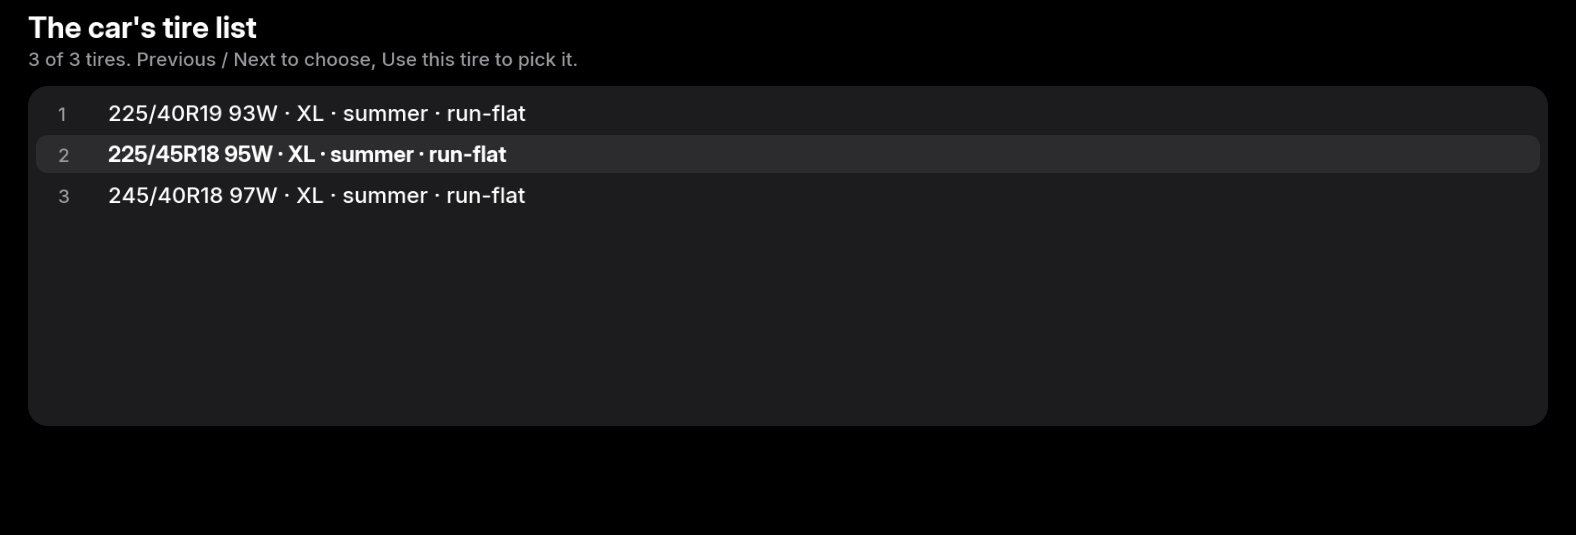
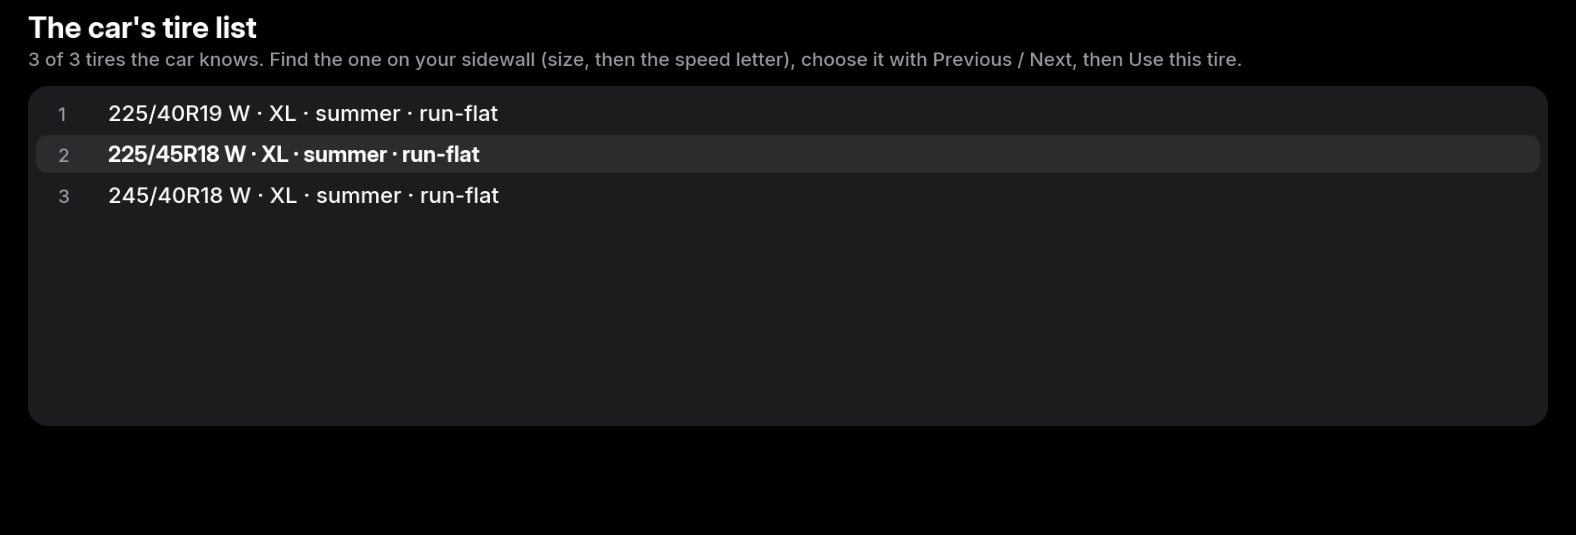
Tire Setup 0.2.0: the tire list in real sizes; Load button for the target pressures
- The car's tire list comes as size steps, not millimetres (Nov 12: width
  13 / 16, ratio 4-7, rim 6-8, shown as '13/7R6'): width = 95 + 10 x step,
  ratio = 15 + 5 x step, rim = 11 + step decodes it to the G22's sizes
  (225/45R18, 255/40R18, 255/35R19, 225/50R17 / 255/45R17 winters). The
  load index is left out (its step lands within 1). The rear axle struct's
  members are 'BackAxle': read them.
- Load button: comfort / partly / fully loaded (pressed twice), which with
  the tire picked sets the target pressures; there is no number to type.
- Seen on the car: Auto detect was accepted and DSC stayed on (20:32 UTC).

diff --git a/apps/aref_tires/main.js b/apps/aref_tires/main.js
@@ -24,7 +24,7 @@ const fonts = require('./kit/fonts');
 const pack = require('./kit/pack');
 const T = require('./decode');
 
-const VERSION = '0.1.2';
+const VERSION = '0.2.0';
 const W = 1600, H = 520;
 const LOG_MAX = 512 * 1024;
 const ARM_MS = 5000;                  // a change button pressed again within this sends it
@@ -106,7 +106,7 @@ mgu.run({
             let busy = false, alarm = null, armed = null, toast = null;
             const say = (text, tone, ms) => { toast = { text: text, tone: tone || 'info', until: Date.now() + (ms || 5000) }; };
             const LABEL = { list: 'Get the tire list', auto: 'Auto detect', pick: 'Use this tire', reset: 'Reset pressures', summer: 'Summer tires',
-                winter: 'Winter tires', eco: 'Eco pressures', partly: 'Partly loaded', full: 'Fully loaded', test: 'Safe test' };
+                winter: 'Winter tires', eco: 'Load: comfort (lowest targets)', partly: 'Load: partly loaded', full: 'Load: fully loaded (highest targets)', test: 'Safe test' };
             // why a change can't be sent now, or null
             const blocked = () => {
                 if (!settings.get('allow_writes')) return 'Changes are off. Turn on Settings > Allow changes to the car.';
@@ -184,6 +184,14 @@ mgu.run({
             ui.onClick('BTN_RESET', guard('reset', () => send('reset')));
             ui.onClick('BTN_SEASON', guard('season', () => { const st = T.tyreState(val('tpms.statusTyreState')); send(st && st.season === 'summer' ? 'winter' : 'summer'); }));
             ui.onClick('BTN_TEST', guard('test', () => send('test')));
+            // the target pressures come from the tire picked and this load setting (BMW's menu: comfort / partly / fully
+            // loaded); there's no number to type in. Each press of Load steps to the next one (pressed twice to send).
+            const LOADS = ['eco', 'partly', 'full'], LOAD_OF = { 'Eco / comfort': 'eco', 'Partly loaded': 'partly', 'Fully loaded': 'full' };
+            ui.onClick('BTN_LOAD', guard('load', () => {
+                const st = T.tyreState(val('tpms.statusTyreState')), cur = st && LOAD_OF[st.loading];
+                const next = armed && /^(eco|partly|full)$/.test(armed.key) ? armed.key : LOADS[(LOADS.indexOf(cur) + 1) % LOADS.length];
+                send(next);
+            }));
             ui.onClick('BTN_DSC', guard('dsc', dscOn));
 
             /* ---------- drawing ---------- */
@@ -235,12 +243,13 @@ mgu.run({
                     ['Parked', sp === null ? 'unknown' : sp < 0.5 ? 'Yes' : 'No (' + Math.round(sp / 1.609) + ' mph)'],
                 ];
                 rows.forEach((r, i) => kv(cv, dx + 26, ty + 36 + i * 32, dw - 52, r[0], r[1], r[2]));
-                cv.text(settings.get('allow_writes') ? 'Changes to the car: allowed (parked, DSC on, press twice)' : 'Changes to the car: off (Settings)', 40, 470, 17, C.dim2, M);
+                const tgtNote = 'Target pressures come from the tire you pick and Load, then Reset learns them.';
+                cv.text((settings.get('allow_writes') ? 'Changes: allowed (parked, DSC on, press twice). ' : 'Changes: off (Settings). ') + tgtNote, 40, 470, 17, C.dim2, M);
             };
             const drawList = (cv) => {
                 const all = ids(), st = T.tyreState(val('tpms.statusTyreState'));
                 cv.text('The car\'s tire list', 40, 76, 30, C.text, B);
-                cv.text(all.length ? all.length + (st && st.listLength ? ' of ' + st.listLength : '') + ' tires. Previous / Next to choose, Use this tire to pick it.' : 'Press Get list: the car sends its list one tire at a time.', 40, 104, 19, C.dim, M);
+                cv.text(all.length ? all.length + (st && st.listLength ? ' of ' + st.listLength : '') + ' tires the car knows. Find the one on your sidewall (size, then the speed letter), choose it with Previous / Next, then Use this tire.' : 'Press Get list: the car sends its list one tire at a time.', 40, 104, 19, C.dim, M);
                 card(cv, 40, 124, W - 80, 340);
                 const per = 8, first = Math.max(0, Math.min(cursor - 3, all.length - per));
                 all.slice(first, first + per).forEach((id, i) => {

diff --git a/apps/aref_tires/tires/decode.js b/apps/aref_tires/tires/decode.js
@@ -83,17 +83,22 @@ const RUNFLAT = { RUNFLAT: 'run-flat', NON_MINUS_RUNFLAT: '', PAX: 'PAX' };
 function tire(v, k) {
     if (!v) return null;
     const g = (m) => v[m.replace('#', k)];
-    const w = g('width#'), r = g('relationSide#') !== undefined ? g('relationSide#') : g('crossSection#'), d = g('radius#') !== undefined ? g('radius#') : g('diameter#');
-    if (!(w > 0 && w < 255 && r > 0 && r < 255 && d > 0 && d < 255)) return null;
-    const load = g('indexLoadCapacity#') !== undefined ? g('indexLoadCapacity#') : g('loadIndex#');
+    const rw = g('width#'), rr = g('relationSide#') !== undefined ? g('relationSide#') : g('crossSection#'), rd = g('radius#') !== undefined ? g('radius#') : g('diameter#');
+    if (!(rw > 0 && rw < 255 && rr > 0 && rr < 255 && rd > 0 && rd < 255)) return null;
+    // the car sends steps, not millimetres (its tire list on Nov 12: widths 13 / 16, ratios 4-7, rims 6-8):
+    // width = 95 + 10 x step, ratio = 15 + 5 x step, rim = 11 + step. That decodes the list to the G22's own
+    // sizes (225/45R18 + 255/40R18, 255/35R19, 225/50R17 + 255/45R17 winters). Real millimetres pass as they are.
+    const w = rw < 60 ? 95 + 10 * rw : rw, r = rr < 20 ? 15 + 5 * rr : rr, d = rd < 12 ? 11 + rd : rd;
+    // the load index's step isn't certain (it lands within 1 of the real one), so it's left out of the size
     const speed = name(g('indexSpeed#') !== undefined ? g('indexSpeed#') : g('speedIndex#'));
     const xl = name(g('carcass#')) === 'REIFEN_XL', season = SEASON[name(g('season#'))] || '', rf = RUNFLAT[name(g('runflat#'))] || '';
-    const size = w + '/' + r + 'R' + d + (load > 0 && load < 255 ? ' ' + load + (speed && speed !== 'SIGNAL_UNGUELTIG' ? speed : '') : '');
-    return { size: size, xl: xl, season: season, runflat: rf, text: [size, xl ? 'XL' : '', season, rf].filter(Boolean).join(' · ') };
+    const sp = speed && speed !== 'SIGNAL_UNGUELTIG' && speed.length <= 2 ? ' ' + speed : '';
+    const size = w + '/' + r + 'R' + d + sp;
+    return { size: size, xl: xl, season: season, runflat: rf, raw: [rw, rr, rd], text: [size, xl ? 'XL' : '', season, rf].filter(Boolean).join(' · ') };
 }
 const listEntry = (v) => { const t = tire(v, 'TypeTyre'); return t ? Object.assign(t, { id: v.statusTyreObjectListID }) : null; };
 const frontAxle = (v) => tire(v, 'FrontAxleTypeTyre');
-const rearAxle = (v) => tire(v, 'RearAxleTypeTyre');
+const rearAxle = (v) => tire(v, 'BackAxleTypeTyre');          // the car names it the back axle
 /** What the sensors say is fitted (ERFS: tire data written into the sensors from the tire's QR code). */
 function sensorTire(v) {
     if (!v) return null;

diff --git a/test/tires.test.js b/test/tires.test.js
@@ -53,6 +53,16 @@ test('why auto detect fails, in plain English', () => {
     assert.strictEqual(T.dsc({ displayStatusDSC2: 'DSC_AUS' }).state, 'off');
 });
 
+test('the tire list: the car sends size steps (its own list, Nov 12)', () => {
+    const e = (w, r, d, sp, season, id) => T.listEntry({ widthTypeTyre: w, relationSideTypeTyre: r, radiusTypeTyre: d, indexSpeedTypeTyre: sp,
+        carcassTypeTyre: 'REIFEN_XL', seasonTypeTyre: season, runflatTypeTyre: 'NON_MINUS_RUNFLAT', statusTyreObjectListID: id });
+    assert.strictEqual(e(13, 6, 7, 'H', 'WINTERREIFEN', 1).text, '225/45R18 H · XL · winter');
+    assert.strictEqual(e(16, 5, 7, 'Y', 'SOMMERREIFEN', 3).text, '255/40R18 Y · XL · summer');
+    assert.strictEqual(e(16, 4, 8, 'Y', 'SOMMERREIFEN', 4).size, '255/35R19 Y');
+    assert.strictEqual(T.rearAxle({ widthBackAxleTypeTyre: 16, relationSideBackAxleTypeTyre: 5, radiusBackAxleTypeTyre: 7, indexSpeedBackAxleTypeTyre: 'Y' }).size, '255/40R18 Y');
+    assert.strictEqual(T.frontAxle({ widthFrontAxleTypeTyre: 0 }), null);
+});
+
 let failed = 0;
 tests.forEach(([name, fn]) => {
     try { fn(); console.log('ok   ' + name); } catch (e) { failed++; console.log('FAIL ' + name + '\n     ' + (e && e.stack || e)); }
